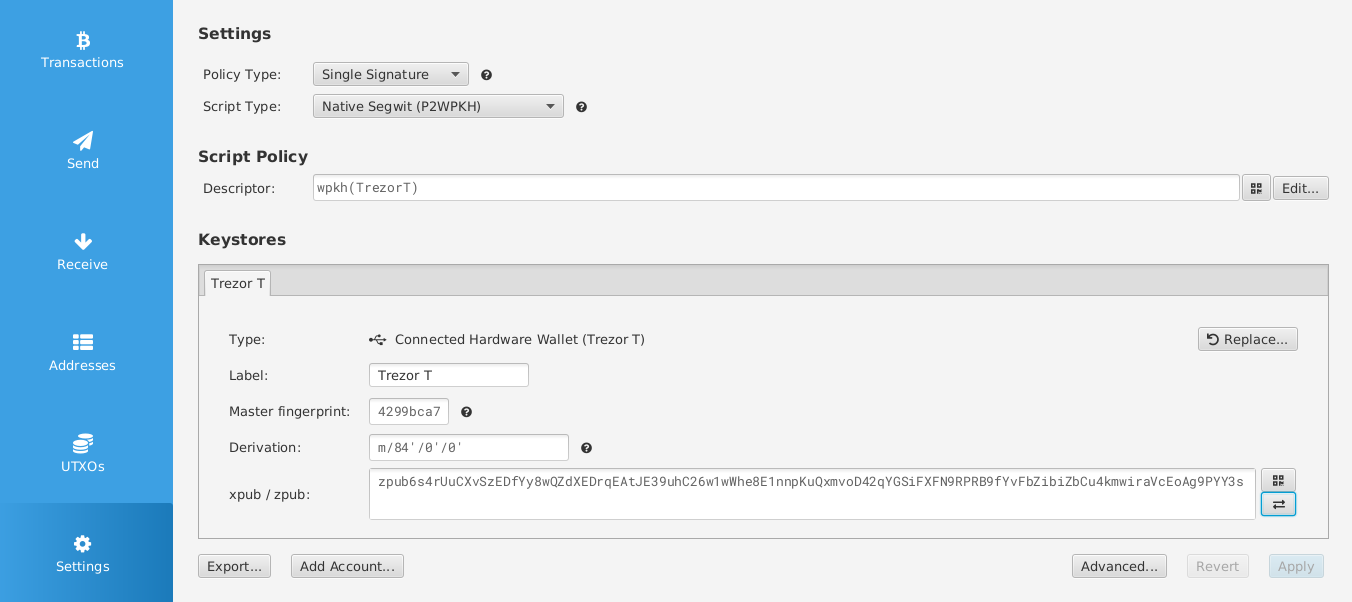
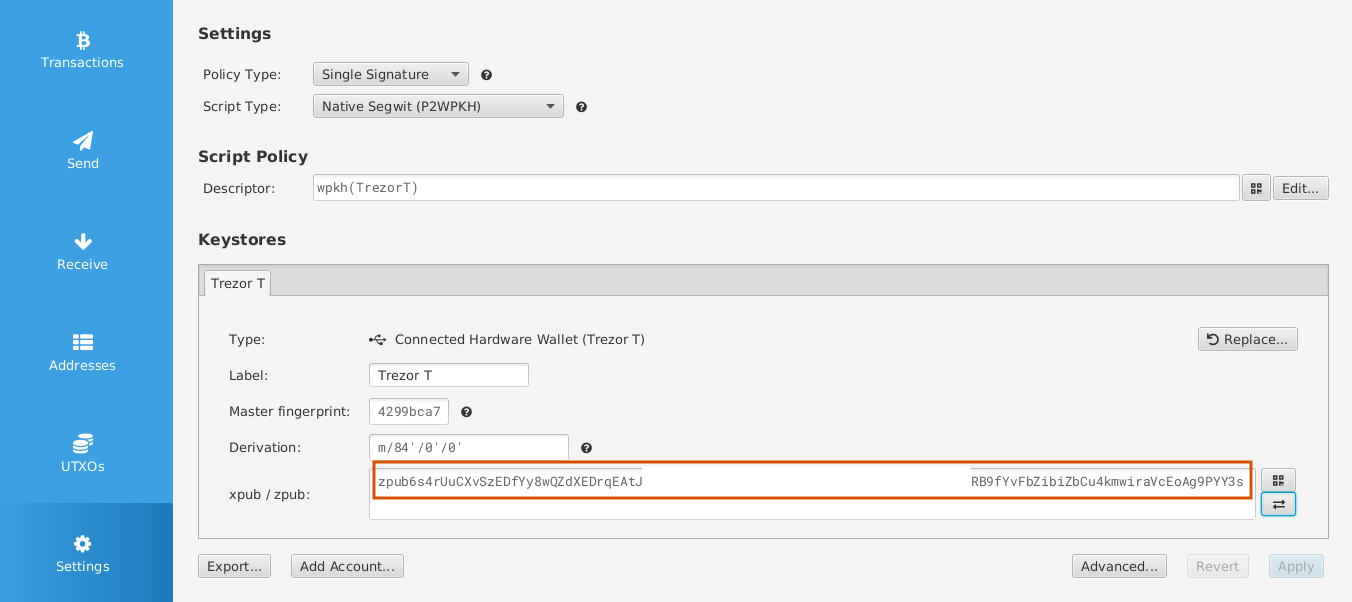
Added node section and edit some imgs

Changed region(s): [[0.2796, 0.7475, 0.932, 0.8372]]

diff --git a/wallets/watch-only/sparrow.md b/wallets/watch-only/sparrow.md
@@ -6,7 +6,7 @@ Open in sparrow previously created wallet, better if we use a wallet that is in 
 ![[copyKey.png]]
 `File -> New Wallet -> xPub / Watch Only Wallet`
 ![[watch-only-wallet.png]]
-Now add the `derivation path`, in our case is native segwit, m/84'/0'/0', and the `zPub`
+Now add the `derivation path`, in our case is native segwit, m/84'/0'/0', and the `zPub` that we previosly copied
 ![[details.png]]
 When the wallet is created, all the options will be blue
 ![[created.png]]

diff --git a/nodes/Ronin Dojo.md b/nodes/Ronin Dojo.md
@@ -1,0 +1,4 @@
+# Ronin Dojo
+Go to [ronin wiki](https://wiki.ronindojo.io/en/home) and start discovering what you need.
+- [DIY build kits](https://wiki.ronindojo.io/en/hardware#tanto-by-ronindojo-diy-build-kits): Get the hardware pieces and build the node, there are different type of single boards, *rpi4* or *rockpiPro*
+- [Installtion](https://wiki.ronindojo.io/en/extras/OS-Info): Once we have the hardware, flash the SD and start running the node
